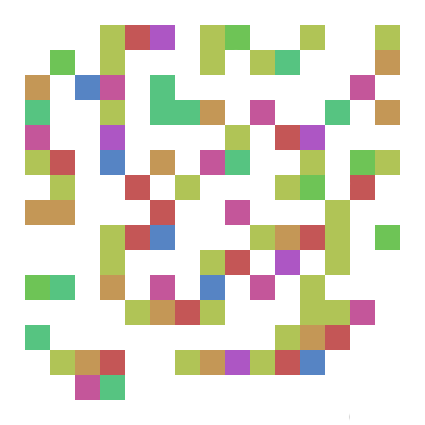
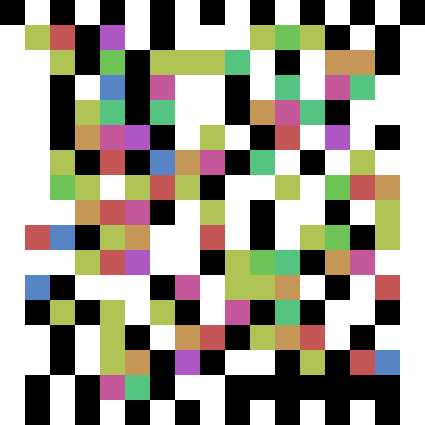
replace grey space with transparent space

diff --git a/js/identity.min.js b/js/identity.min.js
@@ -1,8 +1,1 @@
-/**
- * identimg.js
- *
- * Copyright 2015, Zach Gates
- * Released under the BSD license
- * http://www.opensource.org/licenses/bsd-license.php
-**/
-function ord(t){return t.charCodeAt(0)}function chr(t){return String.fromCharCode(t)}function range(t,r,n){var e=[];if("undefined"==typeof r&&(r=t,t=0),"undefined"==typeof n&&(n=1),n>0&&t>=r||0>n&&r>=t)return[];for(var a=t;n>0?r>a:a>r;a+=n)e.push(a);return e}function chunks(t,r){for(var n=range(0,t.length,r),e=[],a=0;a<n.length;a++)e.push(t.slice(n[a],n[a]+r));return e}function bincolor(t){return clrs={0:"C45656",1:"C49756",2:"B0C456",3:"6EC456",4:"56C481",5:"56C4C3",6:"5684C4",7:"6B56C4",8:"AD56C4",9:"C4569A","+":"CCCCCC"},clrs[t]}function frombincolor(t){return clrs={C45656:"0",C49756:"1",B0C456:"2","6EC456":"3","56C481":"4","56C4C3":"5","5684C4":"6","6B56C4":"7",AD56C4:"8",C4569A:"9",CCCCCC:"+","000000":""},clrs[t]}function identity(t){for(var n=[],e="",o=0;o<t.length;o++)n.push(10*ord(t[o])/5);for(var o=0;o<n.length;o++){var h=n[o].toString();a=h.length<5?5-h.length:h.length%5,e+=h.space(a,"+")}for(var c=Math.floor(Math.sqrt(e.length)/1)+1;c%3!=0;)c+=1;for(var i=Math.pow(c,2)-e.length,C="",o=0;C.length<Math.pow(c,2);){if(o%3&&i&&(a=Math.random(),b=Math.random(),a>b))for(r=Math.floor(i/Math.pow(c,2)>.4?10*Math.random()/1:1*Math.random()/1),0==r&&(r=1),r>i&&(r=i+1-1),i-=r;r>0;)C+="-",r-=1;o<e.length?(C+=e[o],o+=1):C+="-"}return[C,c]}function cells(t){id=identity(t);for(var r=id[0],n=id[1],e=[],a=0;a<r.length;a++)cell=r[a],color=bincolor(cell),e.push(color?color:"000000");if(e.length>Math.pow(n,2)){error=e.splice(Math.pow(n,2));for(var a=0;a<error.length;a++)if(errCell=error[a],"000000"!=errCell)throw"MAJOR ERROR"}for(var o=chunks(e,n),a=0;a<o.length;a++)o[a].unshift("CCCCCC"),o[a].push("CCCCCC");o.unshift(new Array(n+3).join("0").split("").map(function(){return"000000"})),o.push(new Array(n+3).join("0").split("").map(function(){return"000000"}));for(var a=0;a<o[0].length;a++)a%2!=0?o[0][a]="CCCCCC":o[o.length-1][a]="CCCCCC";return o}function toHex(t,r,n,e){return hex=(256+t).toString(16).substr(1)+((1<<24)+(r<<16)|n<<8|e).toString(16).substr(1),hex.substr(0,hex.length-2).toUpperCase()}function cutimage(t){for(var r=[],n=0,e=0;e<t.width&&(canvas=document.createElement("canvas"),context=canvas.getContext("2d"),canvas.width=1,canvas.height=1,context.drawImage(t,e,0,1,1,0,0,1,1),data=context.getImageData(0,0,1,1).data,hex=toHex.apply(this,data),"000000"==hex);e++)n+=1;for(var e=0;e<t.width/n;e++)for(var a=0;a<t.height/n;a++)canvas=document.createElement("canvas"),context=canvas.getContext("2d"),canvas.width=n,canvas.height=n,context.drawImage(t,a*n,e*n,n,n,0,0,n,n),data=context.getImageData(Math.floor(n/2),Math.floor(n/2),1,1).data,r.push(toHex.apply(this,data));return[r,n]}function fromidentity(t){var r=new Image;r.src=t;for(var n=cutimage(r),e=n[0],a=r.width/n[1],o=0,h=0;a>h;h++)chunk=chunks(e,a),"000000"==chunk[0][h]&&(o+=1),"000000"==chunk[chunk.length-1][h]&&(o+=1);var c=chunks(e,o),i=c.slice(1,c.length-1).map(function(t){return t.slice(1,t.length-1)});return i=[].concat.apply([],i),i=i.map(frombincolor).filter(function(t){return""!=t}),i.length?(i=chunks(i,5).map(function(t){return j=t.join("").replace(/\+/g,""),chr(parseInt(j)/2)}),i.join("")):""}String.prototype.mult=function(t){return new Array(t+1).join(this)},String.prototype.space=function(t,r){for(var n="",e=0;e<this.length;)t&&Math.random()<.5?(n+=r,t--):n+=this[e++];for(;t--;)n+=r;return n};
+function ord(t){return t.charCodeAt(0)}function chr(t){return String.fromCharCode(t)}function range(t,r,n){var e=[];if("undefined"==typeof r&&(r=t,t=0),"undefined"==typeof n&&(n=1),n>0&&t>=r||0>n&&r>=t)return[];for(var a=t;n>0?r>a:a>r;a+=n)e.push(a);return e}function chunks(t,r){for(var n=range(0,t.length,r),e=[],a=0;a<n.length;a++)e.push(t.slice(n[a],n[a]+r));return e}function bincolor(t){return clrs={0:[196,86,86,255],1:[196,151,86,255],2:[176,196,86,255],3:[110,196,86,255],4:[86,196,129,255],5:[86,196,195,255],6:[86,132,196,255],7:[107,86,196,255],8:[173,86,196,255],9:[196,86,154,255],"+":[0,0,0,0]},clrs[t]}function frombincolor(t){return clrs={C45656:"0",C49756:"1",B0C456:"2","6EC456":"3","56C481":"4","56C4C3":"5","5684C4":"6","6B56C4":"7",AD56C4:"8",C4569A:"9",CCCCCC:"+","000000":""},clrs[t]}function identity(t){for(var n=[],e="",o=0;o<t.length;o++)n.push(10*ord(t[o])/5);for(var o=0;o<n.length;o++){var h=n[o].toString();a=h.length<5?5-h.length:h.length%5,e+=h.space(a,"+")}for(var c=Math.floor(Math.sqrt(e.length)/1)+1;c%3!=0;)c+=1;for(var i=Math.pow(c,2)-e.length,u="",o=0;u.length<Math.pow(c,2);){if(o%3&&i&&(a=Math.random(),b=Math.random(),a>b))for(r=Math.floor(i/Math.pow(c,2)>.4?10*Math.random()/1:1*Math.random()/1),0==r&&(r=1),r>i&&(r=i+1-1),i-=r;r>0;)u+="-",r-=1;o<e.length?(u+=e[o],o+=1):u+="-"}return[u,c]}function cells(t){id=identity(t);for(var r=id[0],n=id[1],e=[],a=0;a<r.length;a++)cell=r[a],color=bincolor(cell),e.push(color?color:[0,0,0,255]);if(e.length>Math.pow(n,2)){error=e.splice(Math.pow(n,2));for(var a=0;a<error.length;a++)if(errCell=error[a],errCell!=[0,0,0,255])throw"cell error"}for(var o=chunks(e,n),a=0;a<o.length;a++)o[a].unshift([0,0,0,0]),o[a].push([0,0,0,0]);o.unshift(new Array(n+3).join("0").split("").map(function(){return[0,0,0,255]})),o.push(new Array(n+3).join("0").split("").map(function(){return[0,0,0,255]}));for(var a=0;a<o[0].length;a++)a%2!=0?o[0][a]=[0,0,0,0]:o[o.length-1][a]=[0,0,0,0];return o}function toHex(t,r,n,e){return 0==t&0==r&0==n&0==e?"CCCCCC":(hex=(256+t).toString(16).substr(1)+((1<<24)+(r<<16)|n<<8|e).toString(16).substr(1),hex.substr(0,hex.length-2).toUpperCase())}function cutimage(t){for(var r=[],n=0,e=0;e<t.width&&(canvas=document.createElement("canvas"),context=canvas.getContext("2d"),canvas.width=1,canvas.height=1,context.drawImage(t,e,0,1,1,0,0,1,1),data=context.getImageData(0,0,1,1).data,hex=toHex.apply(this,data),"000000"==hex);e++)n+=1;for(var e=0;e<t.width/n;e++)for(var a=0;a<t.height/n;a++)canvas=document.createElement("canvas"),context=canvas.getContext("2d"),canvas.width=n,canvas.height=n,context.drawImage(t,a*n,e*n,n,n,0,0,n,n),data=context.getImageData(Math.floor(n/2),Math.floor(n/2),1,1).data,r.push(toHex.apply(this,data));return[r,n]}function fromidentity(t){var r=new Image;r.src=t;for(var n=cutimage(r),e=n[0],a=r.width/n[1],o=0,h=0;a>h;h++)chunk=chunks(e,a),"000000"==chunk[0][h]&&(o+=1),"000000"==chunk[chunk.length-1][h]&&(o+=1);var c=chunks(e,o),i=c.slice(1,c.length-1).map(function(t){return t.slice(1,t.length-1)});return i=[].concat.apply([],i),i=i.map(frombincolor).filter(function(t){return""!=t}),i.length?(i=chunks(i,5).map(function(t){return j=t.join("").replace(/\+/g,""),chr(parseInt(j)/2)}),i.join("")):""}String.prototype.mult=function(t){return new Array(t+1).join(this)},String.prototype.space=function(t,r){for(var n="",e=0;e<this.length;)t&&Math.random()<.5?(n+=r,t--):n+=this[e++];for(;t--;)n+=r;return n};

diff --git a/js/canvas.min.js b/js/canvas.min.js
@@ -1,8 +1,1 @@
-/**
- * canvas.js
- *
- * Copyright 2015, Zach Gates
- * Released under the BSD license
- * http://www.opensource.org/licenses/bsd-license.php
-**/
-$(document).ready(function(){function t(t){var e=$("img#textual-id")[0];return e.src=t.toDataURL("image/png"),e.src}function e(e){for(var e=e||"",n=$("canvas#textual-id")[0],i=n.getContext("2d"),a=0,o=1;100>o&&(l=Math.ceil(Math.sqrt(3*e.length))+2,!(l*o>300));o++)a=o;e=cells(e),n.setAttribute("width",e.length*a+"px"),n.setAttribute("height",e.length*a+"px"),$("img#textual-id").css({zoom:300/(e.length*a)});for(var o=0;o<e.length;o++)for(var l=0;l<e[o].length;l++)i.beginPath(),i.fillStyle="#"+e[o][l],i.fillRect(l*a,o*a,a,a);e=t(n),$("a#dload")[0].href=e}$("#banner").slideUp(0),$("#home-main-cont").slideUp(0),$("#demo-main-cont").slideUp(0),setTimeout(function(){$("#banner").slideDown(750),$("#home-main-cont").slideDown(750)},250),toHome=function(){$("#demo-main-cont").slideUp(750),setTimeout(function(){$("#banner").slideDown(750),$("#home-main-cont").slideDown(750)},750)},toDemo=function(){$("#home-main-cont").slideUp(750),$("#banner").slideUp(750),setTimeout(function(){$("#demo-main-cont").slideDown(750)},750)},$("textarea#textual-input").on("input",function(){e($(this).val())}),$("input#upload").change(function(){$("div#load-toggle").css({display:"inline-block"});var t=this.files[0],e=new FileReader;e.onload=function(){var t=e.result;$("textarea#textual-base").text(t)},e.readAsDataURL(t),setTimeout(function(){var t=$("textarea#textual-base").val(),e=fromidentity(t),n=RegExp(/https?:\/\/.*/);e.match(n)&&window.open(e),$("textarea#textual-id").text(e),$("div#load-toggle").css({display:"none"})},500)}),e($("input#textual-input").val())});
+$(document).ready(function(){function t(t){var e=$("img#textual-id")[0];return e.src=t.toDataURL("image/png"),e.src}function e(e){for(var e=e||"",n=$("canvas#textual-id")[0],i=n.getContext("2d"),a=0,o=1;100>o&&(l=Math.ceil(Math.sqrt(3*e.length))+2,!(l*o>300));o++)a=o;e=cells(e),n.setAttribute("width",e.length*a+"px"),n.setAttribute("height",e.length*a+"px"),$("img#textual-id").css({zoom:300/(e.length*a)});for(var o=0;o<e.length;o++)for(var l=0;l<e[o].length;l++)i.beginPath(),i.fillStyle="rgba("+e[o][l]+")",i.fillRect(l*a,o*a,a,a);e=t(n),$("a#dload")[0].href=e}$("#banner").slideUp(0),$("#home-main-cont").slideUp(0),$("#demo-main-cont").slideUp(0),setTimeout(function(){$("#banner").slideDown(750),$("#home-main-cont").slideDown(750)},250),toHome=function(){$("#demo-main-cont").slideUp(750),setTimeout(function(){$("#banner").slideDown(750),$("#home-main-cont").slideDown(750)},750)},toDemo=function(){$("#home-main-cont").slideUp(750),$("#banner").slideUp(750),setTimeout(function(){$("#demo-main-cont").slideDown(750)},750)},$("textarea#textual-input").on("input",function(){e($(this).val())}),$("input#upload").change(function(){var t=this.files[0],e=new FileReader;e.onload=function(){var t=e.result;$("textarea#textual-base").text(t)},e.readAsDataURL(t),setTimeout(function(){var t=$("textarea#textual-base").val(),e=fromidentity(t),n=RegExp(/https?:\/\/.*/);e.match(n)&&window.open(e),$("textarea#textual-id").text(e)},500)}),e($("input#textual-input").val())});

diff --git a/js/canvas.js b/js/canvas.js
@@ -25,7 +25,7 @@ $(document).ready(function () {
 		for (var i = 0; i < data.length; i++) {
 			for (var j = 0; j < data[i].length; j++) {
 				context.beginPath();
-				context.fillStyle = "#" + data[i][j];
+				context.fillStyle = "rgba(" + data[i][j] + ")";
 				context.fillRect(j * ps, i * ps, ps, ps);
 			}
 		}
@@ -33,7 +33,32 @@ $(document).ready(function () {
 		$("a#dload")[0].href = data;
 	}
 	
-	$("input#textual-input").on('input', function () {
+	$("#banner").slideUp(0);
+	$("#home-main-cont").slideUp(0);
+	$("#demo-main-cont").slideUp(0);
+	
+	setTimeout(function() {
+        $("#banner").slideDown(750);
+        $("#home-main-cont").slideDown(750);
+    }, 250)
+    
+	toHome = function () {
+        $("#demo-main-cont").slideUp(750);
+        setTimeout(function() {
+            $("#banner").slideDown(750);
+            $("#home-main-cont").slideDown(750);
+        }, 750)
+    }
+    
+    toDemo = function () {
+        $("#home-main-cont").slideUp(750);
+        $("#banner").slideUp(750);
+        setTimeout(function() {
+            $("#demo-main-cont").slideDown(750);
+        }, 750)
+    }
+	
+	$("textarea#textual-input").on('input', function () {
 		newIdentity($(this).val());
 	});
 	
